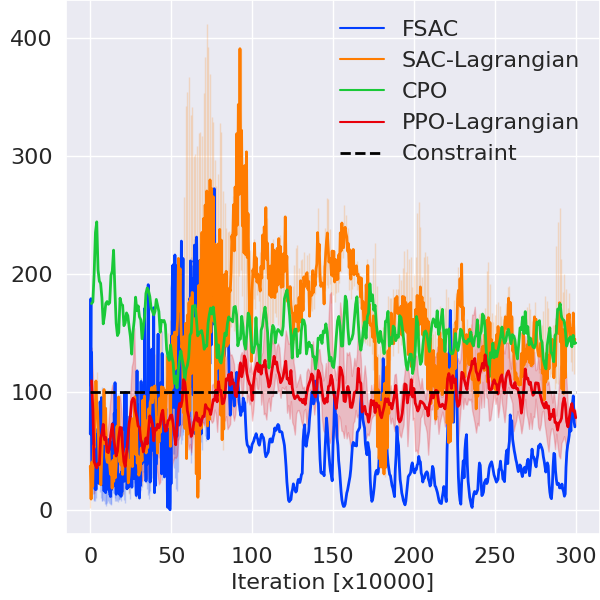
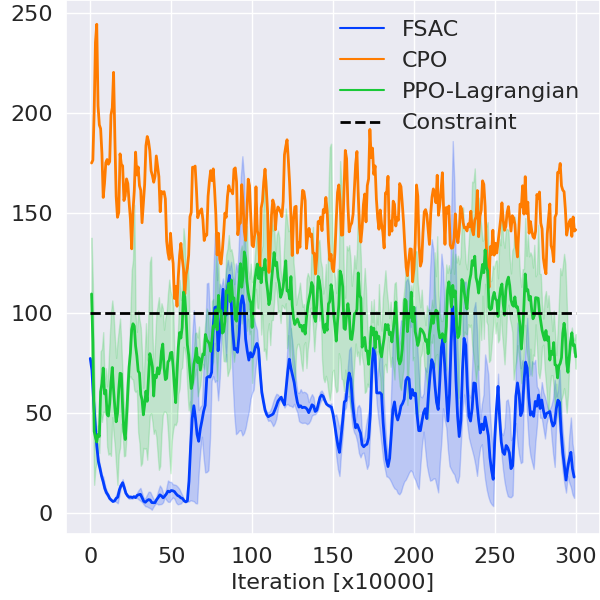
update automatic ascent start

diff --git a/data_process/lineplot_mujoco.py b/data_process/lineplot_mujoco.py
@@ -16,7 +16,7 @@ sns.set(style="darkgrid")
 SMOOTHFACTOR = 0.3
 SMOOTHFACTOR2 = 3
 DIV_LINE_WIDTH = 50
-txt_store_alg_list = ['CPO', 'PPO-Lagrangian']
+txt_store_alg_list = ['CPO', 'PPO-Lagrangian', 'TRPO-Lagrangian']
 base_dict = dict(HalfCheetah=150)
 
 def load_from_event():
@@ -59,9 +59,9 @@ def load_from_tf1_event(eval_dir, tag2plot):
     return data_in_one_run_of_one_alg
 
 def help_func():
-    tag2plot = ['episode_return']
-    alg_list = ['CPO','PPO-Lagrangian'] # 'FSAC', 'CPO', 'SAC','SAC-Lagrangian',
-    lbs = ['CPO','PPO-Lagrangian'] # 'FSAC', 'CPO', 'SAC','SAC-Lagrangian',
+    tag2plot = ['episode_cost']
+    alg_list = ['FSAC','CPO','PPO-Lagrangian','TRPO-Lagrangian'] # 'FSAC', 'CPO', 'SAC','SAC-Lagrangian',
+    lbs = ['FSAC','CPO','PPO-Lagrangian','TRPO-Lagrangian'] # 'FSAC', 'CPO', 'SAC','SAC-Lagrangian',
     task = ['HalfCheetah']
     #todo: CarGoal: sac
     #todo: CarButton: sac choose better fac
@@ -101,8 +101,10 @@ def plot_eval_results_of_all_alg_n_runs(dirs_dict_for_plot=None):
                             event = event_pb2.Event.FromString(eval_summary.numpy())
                             if dir.startswith('conti150'):
                                 step = int(event.step + 1500000)
-                            if dir.startswith('conti'):
+                            elif dir.startswith('conti'):
                                 step = int(event.step + 1000000)
+                            elif dir.startswith('short'):
+                                step = int(event.step / 7200) * 10000
                             else:
                                 step = event.step
                             if step <= 3000000:

diff --git a/optimizer.py b/optimizer.py
@@ -92,8 +92,10 @@ class UpdateThread(threading.Thread):
             # except ValueError:
             #     self.grad = [tf.zeros_like(grad) for grad in self.grad]
             #     logger.info('Grad is nan!, zero it')
-
-            self.local_worker.apply_gradients(self.iteration, self.grad)
+            if self.ascent:
+                self.local_worker.apply_gradients(self.iteration, self.grad, ascent=True)
+            else:
+                self.local_worker.apply_gradients(self.iteration, self.grad, ascent=False)
 
         # log
         if self.iteration % self.args.log_interval == 0:
@@ -456,7 +458,7 @@ class OffPolicyAsyncOptimizerWithCost(object):
                     weights = ray.put(self.local_worker.get_weights())
                 learner.set_weights.remote(weights)
                 if self.update_thread.ascent:
-                    logger.info('Start dual ascent')
+                    # logger.info('Start dual ascent')
                     self.learn_tasks.add(learner, learner.compute_gradient.remote(samples[:-1], rb, samples[-1],
                                                                                     self.local_worker.iteration, ascent=True))
                 else:

diff --git a/policy.py b/policy.py
@@ -395,7 +395,7 @@ class PolicyWithMu(tf.Module):
                 self.target_models[i-len(self.models)].set_weights(weight)
 
     @tf.function
-    def apply_gradients(self, iteration, grads):
+    def apply_gradients(self, iteration, grads, ascent):
         if self.policy_only:
             policy_grad = grads
             self.policy_optimizer.apply_gradients(zip(policy_grad, self.policy.trainable_weights))
@@ -415,7 +415,7 @@ class PolicyWithMu(tf.Module):
                 self.QC1_optimizer.apply_gradients(zip(qc1_grad, self.QC1.trainable_weights))
                 if self.double_QC:
                     self.QC2_optimizer.apply_gradients(zip(qc2_grad, self.QC2.trainable_weights))
-                if iteration % self.dual_ascent_interval == 0 and self.constrained and iteration > self.penalty_start:
+                if iteration % self.dual_ascent_interval == 0 and self.constrained and ascent:
                     lam_grad = grads[4 * q_weights_len + policy_weights_len: 4 * q_weights_len + policy_weights_len + lam_weights_len]
                     self.Lam_optimizer.apply_gradients(zip(lam_grad, self.Lam.trainable_weights))
                 if iteration % self.delay_update == 0:

diff --git a/train_script4fsac.py b/train_script4fsac.py
@@ -200,9 +200,9 @@ def built_FSAC_parser():
     parser.add_argument('--result_dir', type=str, default=results_dir)
     parser.add_argument('--log_dir', type=str, default=results_dir + '/logs')
     parser.add_argument('--model_dir', type=str, default=results_dir + '/models')
-    parser.add_argument('--model_load_dir', type=str, default='./results/FSAC/HalfCheeta/HalfCheetah-2021-05-12-20-24-44')
+    parser.add_argument('--model_load_dir', type=str, default='./results/FSAC/HalfCheeta/HalfCheetah-2021-05-12-20-24-44/models')
     parser.add_argument('--model_load_ite', type=int, default=400000)
-    parser.add_argument('--ppc_load_dir', type=str, default='./results/FSAC/HalfCheeta/HalfCheetah-2021-05-12-20-24-44')
+    parser.add_argument('--ppc_load_dir', type=str, default='./results/FSAC/HalfCheeta/HalfCheetah-2021-05-12-20-24-44/models')
 
     return parser.parse_args()
 

diff --git a/worker.py b/worker.py
@@ -83,9 +83,9 @@ class OffPolicyWorkerWithCost(object):
     def set_weights(self, weights):
         return self.policy_with_value.set_weights(weights)
 
-    def apply_gradients(self, iteration, grads):
+    def apply_gradients(self, iteration, grads, ascent):
         self.iteration = iteration
-        self.policy_with_value.apply_gradients(self.tf.constant(iteration, dtype=self.tf.int32), grads)
+        self.policy_with_value.apply_gradients(self.tf.constant(iteration, dtype=self.tf.int32), grads, ascent=ascent)
 
     def get_ppc_params(self):
         return self.preprocessor.get_params()

diff --git a/evaluator.py b/evaluator.py
@@ -504,7 +504,7 @@ class EvaluatorWithCost(object):
         if self.eval_times % self.args.eval_log_interval == 0:
             logger.info('Evaluator_info: {}, {}'.format(self.get_stats(), mean_metric_dict))
         self.eval_times += 1
-        over_cost_lim = mean_metric_dict['episode_cost'] > self.args.cost_lim
+        over_cost_lim = mean_metric_dict['episode_cost'] > (self.args.cost_lim / 0.2)
         return over_cost_lim
 
 def run_evaluation_demo(self, iteration):

diff --git a/data_process/lineplot.py b/data_process/lineplot.py
@@ -61,7 +61,7 @@ def help_func():
     tag2plot = ['episode_return']
     alg_list = ['FSAC', 'CPO', 'PPO-Lagrangian'] # 'SAC','SAC-Lagrangian',
     lbs = ['FSAC', 'CPO', 'PPO-Lagrangian'] # 'SAC','SAC-Lagrangian',
-    task = ['PointButton']
+    task = ['PointGoal']
     #todo: CarGoal: sac
     #todo: CarButton: sac choose better fac
     # todo: CarPush: ???
